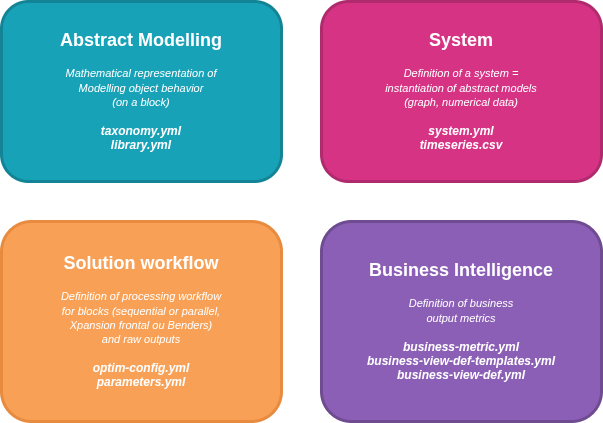
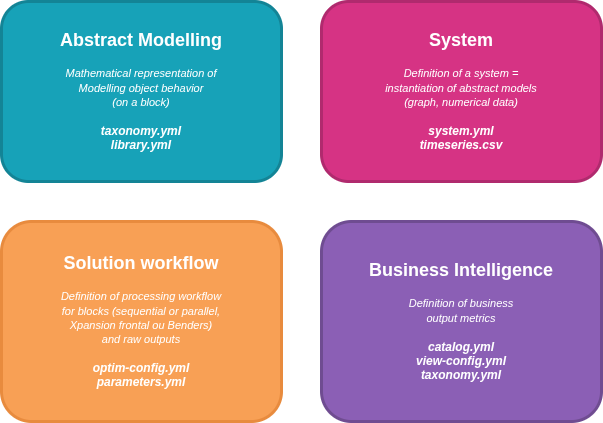
(PR71) Documentation/Views in Overview Chapter (#186)
* update domains concenring views

* document views inside the table

* mention views inside glossary

* restructure table

* rename groups by categories

* use new architecture diagram

* integrate the data workflow inside the file structure page

* Update doc/overview/glossary.md

* Update doc/overview/file-structure.md

* Update doc/overview/file-structure.md

* Update doc/overview/glossary.md

* move the data workflow section

* update diagram architectural overview

* upate diagram

* Update taxonomy description in file structure

---------

Changed region(s): [[0.597, 0.7991, 0.9254, 0.922]]

diff --git a/doc/overview/glossary.md b/doc/overview/glossary.md
@@ -10,9 +10,12 @@ This section is a glossary of the main concepts used by GEMS. For a detailed spe
 
 | Term    | Definition    |
 |---------|---------------|
-| [Library](../user-guide/input-files/library.md) | A file listing all the models representing general unspecified elements of a study. These models are used as "template" for creating their instances, called components|
-| [System](../user-guide/input-files/system.md)  | A file listing all the "components", the instances of models defined by the **library** yaml file, representing all the specified elements of the simulated grid. This file also contains all the connections between the components|
+| [Library](../user-guide/input-files/library.md) | A file listing all the **models** representing general unspecified elements of a study. These models are used as "templates" for creating their instances, called components.|
+| [System](../user-guide/input-files/system.md)  | A file listing all the "**components**", the instances of models defined by the system YAML file, representing all the specified elements of the simulated grid. This file also contains all the connections between the components|
 | [Dataseries](../user-guide/input-files/data-series.md) | A table containing all the data through time. It is used by time/scenario dependent components|
+| [Taxonomy](../user-guide/input-files/business-view-configuration.md) | A file classifying component models into **categories**. Used to select which components contribute to a metric.|
+| [Catalog](../user-guide/input-files/business-view-configuration.md) | A file defining a set of end-use **Metrics** with their aggregation rules (terms, terms-operator, time-operator).|
+| [View Config](../user-guide/input-files/business-view-configuration.md) | Configure **views** by specifying scope (location, calendar), time aggregation, and the metrics from `catalog.yml` to compute.|
 
 ## Concepts
 
@@ -49,5 +52,13 @@ This section is a glossary of the main concepts used by GEMS. For a detailed spe
 | [Time dependent](../user-guide/syntax.md#time-operators-and-indexing)     |  A parameter or variable depending on time. In this case, the parameter is instantiated as a dataseries. |
 | Scenario | Condition of the system environment (e.g., weather patterns, demand levels) over the simulation horizon. Multiple scenarios can be evaluated in a single study to capture variability or uncertainty. |
 | [Scenario dependent](../user-guide/syntax.md#scenario-operator) | A parameter or variable depending on the scenario. In this case, the parameter is instantiated as a dataseries. |
+
+
+## Output Files
+
+| Term    | Definition    |
+|---------|---------------|
+| [Simulation table](../user-guide/outputs/simulation-table.md) | A table providing the raw optimization results|
+| [Views](../user-guide/outputs/business-view.md) | They provide a representation of results as Metrics, based on users' requirements written inside the `view-config.yml`.|
 
 

diff --git a/doc/overview/file-structure.md b/doc/overview/file-structure.md
@@ -20,7 +20,13 @@ The different types of files describing a GEMS study case are:
 | **[Timeseries](../user-guide/input-files/data-series.md)**  | <span style="display:inline-block; width:12px; height:12px; background-color:#D63384; border-radius:50%; margin-right:5px;"></span>System  | Dataseries (e.g., `wind_generation.csv`, `solar_generation.csv`)  | **Time-dependent Data:** Numerical data for parameters varying by time and scenario. Stored as .csv or .tsv files (parquet support coming soon), typically in a data-series folder.|
 | **Solution Workflow**| <span style="display:inline-block; width:12px; height:12px; background-color:#F8A055; border-radius:50%; margin-right:5px;"></span>Solution Workflow| YAML (`optim-config.yml`)| **Workflow Definition:** Describes calculation block processing (sequential, parallel, decomposition methods) and master problem constraints, especially for investment variables.|
 |**[Optimization Parameters](../user-guide/input-files/solver-optimization.md)**| <span style="display:inline-block; width:12px; height:12px; background-color:#F8A055; border-radius:50%; margin-right:5px;"></span>Solution Workflow| YAML (`parameters.yml`)| **Solver & Configuration Settings:** Contains solver parameters and configuration required for running Modeler (a GEMS interpreter).|
-| **[Views Configurations](../user-guide/input-files/view-configuration.md)**| <span style="display:inline-block; width:12px; height:12px; background-color:#8B5FB5; border-radius:50%; margin-right:5px;"></span>Business Intelligence| YAML (e.g., `business-view-def.yml`, `business-metric.yml`) | **Business Metrics Logic:** Calculates business metrics from simulation results in two phases: Step 1 (component scope, complex arithmetic), Step 2 (global scope, aggregation/filtering).|
+| **[Taxonomy](../user-guide/input-files/taxonomy.md)**| <span style="display:inline-block; width:12px; height:12px; background-color:#17A2B8; border-radius:50%; margin-right:5px;"></span>Abstract modelling| YAML (`taxonomy.yml`)| **Models Classification:** Classifies component models into categories used to select which components contribute to a metric.|
+| **[Metrics Catalog](../user-guide/input-files/catalog.md)**| <span style="display:inline-block; width:12px; height:12px; background-color:#8B5FB5; border-radius:50%; margin-right:5px;"></span>Business Intelligence| YAML (`catalog.yml`) | **Metrics Logic:** Defines a set of Metrics with their aggregation rules (terms, terms-operator, time-operator). Used by `view-config.yml`.|
+| **[Views Configurations](../user-guide/input-files/view-configuration.md)**| <span style="display:inline-block; width:12px; height:12px; background-color:#8B5FB5; border-radius:50%; margin-right:5px;"></span>Business Intelligence| YAML (`view-config.yml`) | **Views Logic:** Configures views by specifying scope (location, calendar), time aggregation resolution, and the metrics from `catalog.yml` to compute.|
+
+## Data Workflow
+
+![Workflow](../../assets/architectural_overview.png)
 
 ## Files Interaction
 
@@ -47,7 +53,7 @@ To get familiar with these concepts, see the table below for a correspondence be
 |Scenario dependency| The maximum power output `p_max` can depend on the scenario chosen by the users (and also depends on the time)|
 |Time dependency|`p_max` is a time dependent parameter (and also depends on the scenario)|
 
-## Output Files (generated by a Gems interpreter)
+## Output Files (generated by a GEMS interpreter)
 
 The outputs of GEMS consist of three main categories of objects: **Optimization Problem**, **Simulation Table** and **Views**. Their structure is detailed in the [User Guide section](../user-guide/outputs/simulation-table.md).
 

diff --git a/doc/overview/references/classification.md b/doc/overview/references/classification.md
@@ -1,7 +1,7 @@
 # Classification of Models (Taxonomy)
 
-GEMS employs a classification of models defined in `taxonomy.yml` file to organize models into `taxonomy groups` (e.g., production, balance, storage).
-These groups guarantee certain modelling choices and how outputs are aggregated, mapped and filtered. This ensures consistent and logical data combination across components.
+GEMS employs a classification of models defined in `taxonomy.yml` file to organize models into `taxonomy categories` (e.g., production, balance, storage).
+These categories guarantee certain modelling choices and how outputs are aggregated, mapped and filtered. This ensures consistent and logical data combination across components.
 
 This table contains all the referenced taxonomies of models created by different projects:
 